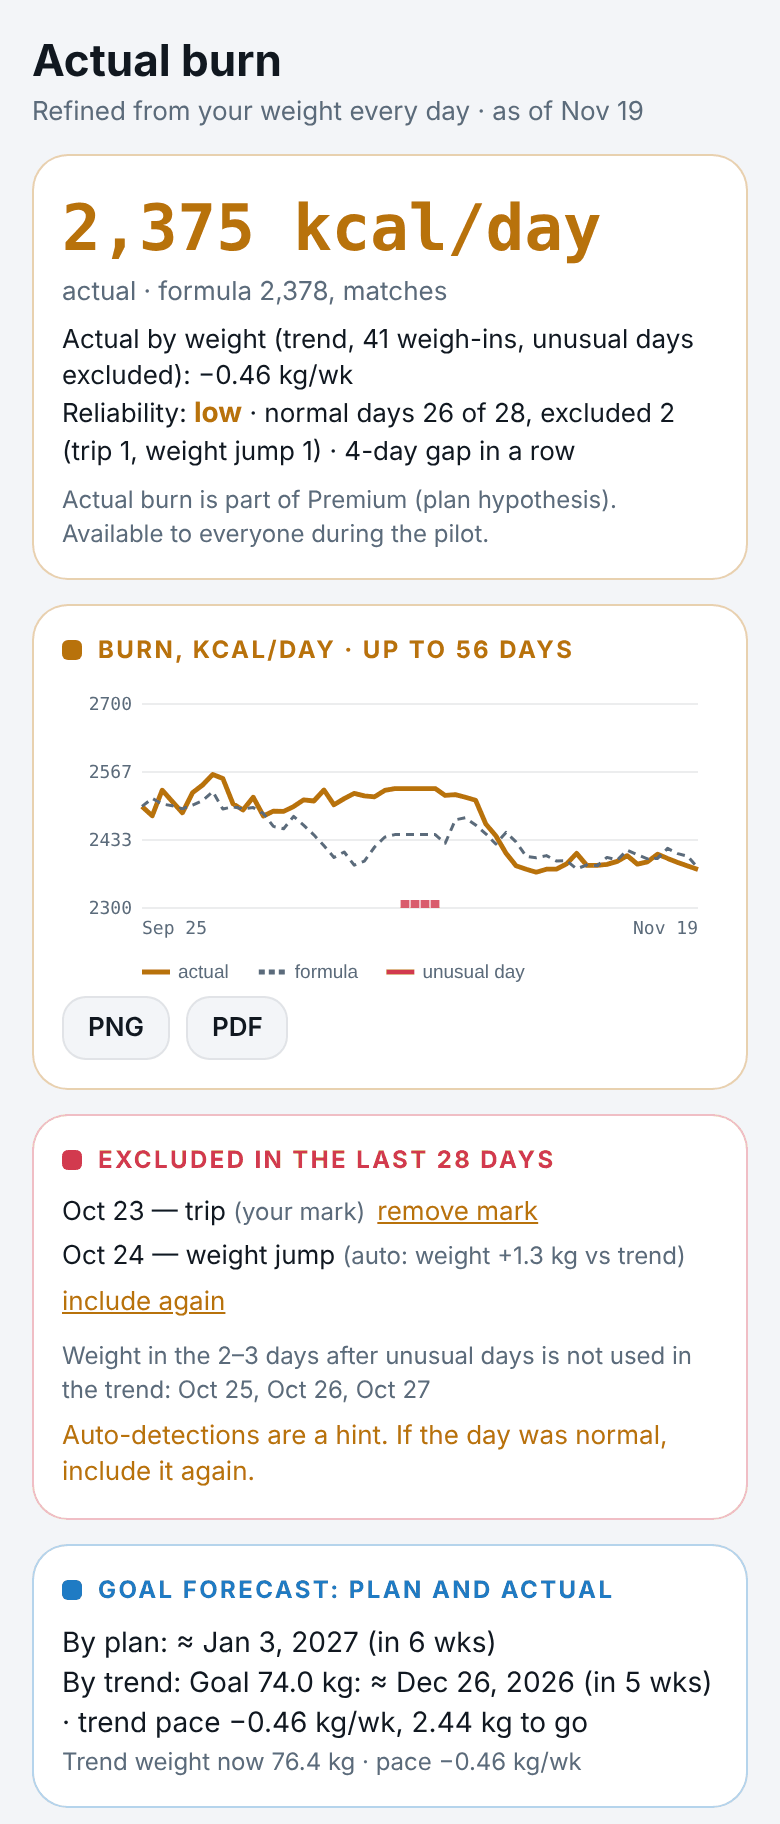
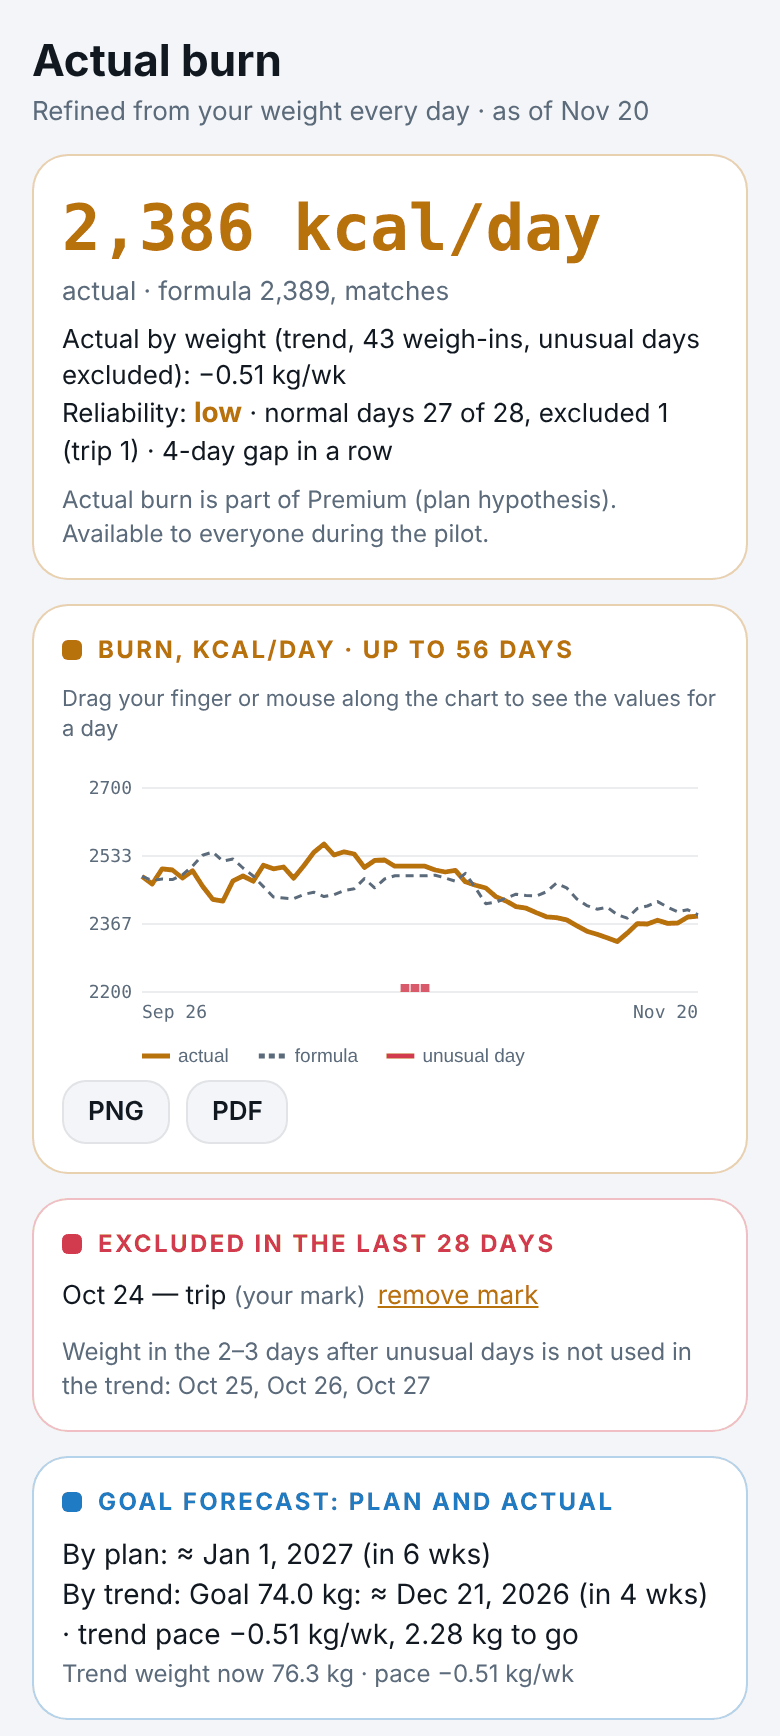
Графики: ползунок со значениями под пальцем или мышью
Касание или перетаскивание по графику ставит вертикальную линию с точками на сериях,
над графиком — день недели, дата и значения всех линий (тренд и формула — по линии между
точками, замеры — только точные). Вертикальный свайп по-прежнему прокручивает страницу.
В выгрузку PNG/PDF линия не попадает. Справка и картинки «Графики», «Расход» обновлены.

Claude-Session: https://claude.ai/code/session_01HA1pnm92jBdARLJN3UKvwB

diff --git a/src/ui/chartsvg.ts b/src/ui/chartsvg.ts
@@ -34,6 +34,8 @@ export interface ChartSpec {
   yStep?: number;
   zeroLine?: boolean;
   legend?: boolean;
+  /** Ползунок: вертикальная линия и точки серий в этот день (только на экране, в выгрузку не идёт). */
+  cursor?: ISODate;
   /** Форматы дат и чисел по языку интерфейса (подписи осей). */
   fmt: Pick<Fmt, 'dm' | 'num'>;
 }
@@ -57,8 +59,8 @@ function niceRange(vals: number[], step?: number): [number, number] {
 
 const fmtY = (v: number, f: ChartSpec['fmt']) => (Math.abs(v) >= 100 ? f.num(v, 0) : f.num(v, 1));
 
-export function chartSvg(spec: ChartSpec, t: Palette): string {
-  const { width: W, height: H } = spec;
+/** Поля области построения — общие для рисования и для ползунка. */
+function frame(spec: Pick<ChartSpec, 'width' | 'height' | 'from' | 'to' | 'series' | 'legend'>) {
   const legendH = spec.legend === false ? 0 : 18;
   const pL = 40;
   const hasRight = spec.series.some((s) => s.axis === 'right' && s.points.length);
@@ -66,7 +68,64 @@ export function chartSvg(spec: ChartSpec, t: Palette): string {
   const pT = 10;
   const pB = 20 + legendH;
   const span = Math.max(1, dayDiff(spec.from, spec.to));
-  const x = (d: ISODate) => pL + (dayDiff(spec.from, d) / span) * (W - pL - pR);
+  const x = (d: ISODate) => pL + (dayDiff(spec.from, d) / span) * (spec.width - pL - pR);
+  return { legendH, pL, pR, pT, pB, hasRight, span, x };
+}
+
+/** Число для подписи ползунка: крупные — целыми, вес и % — с десятыми, малые изменения — с сотыми. */
+export const fmtValue = (v: number, f: Pick<Fmt, 'num'>) =>
+  f.num(v, Math.abs(v) >= 100 ? 0 : Math.abs(v) >= 10 ? 1 : 2);
+
+/** Ближайший к точке касания день, в который есть хотя бы одно значение. */
+export function nearestDate(
+  spec: Pick<ChartSpec, 'width' | 'height' | 'from' | 'to' | 'series' | 'legend'>,
+  px: number,
+): ISODate | null {
+  const { x } = frame(spec);
+  let best: ISODate | null = null;
+  let bestDist = Infinity;
+  for (const s of spec.series)
+    for (const p of s.points) {
+      const dist = Math.abs(x(p.d) - px);
+      if (dist < bestDist || (dist === bestDist && best != null && p.d < best)) {
+        best = p.d;
+        bestDist = dist;
+      }
+    }
+  return best;
+}
+
+/**
+ * Значение серии в день d: точное, а для сплошной линии без точек (тренд, формула) — по линии между соседними точками.
+ * Замеры (точки) и столбики берутся только точно: выдумывать взвешивание нельзя.
+ */
+export function seriesAt(s: Series, d: ISODate): number | null {
+  const exact = s.points.find((q) => q.d === d);
+  if (exact) return exact.v;
+  if (s.bars || s.dots || s.points.length < 2) return null;
+  let a: Series['points'][number] | null = null;
+  let b: Series['points'][number] | null = null;
+  for (const p of s.points) {
+    if (p.d < d && (!a || p.d > a.d)) a = p;
+    if (p.d > d && (!b || p.d < b.d)) b = p;
+  }
+  if (!a || !b || dayDiff(a.d, b.d) > (s.gapDays ?? 7)) return null;
+  return a.v + ((b.v - a.v) * dayDiff(a.d, d)) / dayDiff(a.d, b.d);
+}
+
+/** Значения всех серий в выбранный день (серии без значения в этот день пропускаются). */
+export function valuesAt(spec: Pick<ChartSpec, 'series'>, d: ISODate) {
+  const out: { label: string; color: string; v: number }[] = [];
+  for (const s of spec.series) {
+    const v = seriesAt(s, d);
+    if (v != null) out.push({ label: s.label, color: s.color, v });
+  }
+  return out;
+}
+
+export function chartSvg(spec: ChartSpec, t: Palette): string {
+  const { width: W, height: H } = spec;
+  const { legendH, pL, pR, pT, pB, hasRight, span, x } = frame(spec);
   const leftVals = spec.series.filter((s) => s.axis !== 'right').flatMap((s) => s.points.map((p) => p.v));
   const rightVals = spec.series.filter((s) => s.axis === 'right').flatMap((s) => s.points.map((p) => p.v));
   if (spec.zeroLine) leftVals.push(0);
@@ -113,6 +172,16 @@ export function chartSvg(spec: ChartSpec, t: Palette): string {
     g += `<path d="${dPath}" fill="none" stroke="${s.color}" stroke-width="${s.width || 2}" ${s.dash ? 'stroke-dasharray="4 3"' : ''} stroke-linejoin="round"/>`;
     if (s.dots)
       for (const p of pts) g += `<circle cx="${x(p.d).toFixed(1)}" cy="${y(p.v).toFixed(1)}" r="2.2" fill="${s.color}"/>`;
+  }
+  if (spec.cursor) {
+    const cx = x(spec.cursor).toFixed(1);
+    g += `<line x1="${cx}" y1="${pT - 6}" x2="${cx}" y2="${H - pB}" stroke="${t.text}" stroke-width="1.5"/>`;
+    for (const s of spec.series) {
+      const v = seriesAt(s, spec.cursor);
+      if (v == null) continue;
+      const cy = (s.axis === 'right' ? yR : yL)(v).toFixed(1);
+      g += `<circle cx="${cx}" cy="${cy}" r="4.5" fill="${t.card}" stroke="${s.color}" stroke-width="2.2"/>`;
+    }
   }
   g += `<text x="${pL}" y="${H - pB + 13}" fill="${t.muted}" font-size="9" ${FONT}>${esc(spec.fmt.dm(spec.from))}</text>`;
   g += `<text x="${W - pR}" y="${H - pB + 13}" fill="${t.muted}" font-size="9" text-anchor="end" ${FONT}>${esc(spec.fmt.dm(spec.to))}</text>`;

diff --git a/src/ui/Chart.tsx b/src/ui/Chart.tsx
@@ -1,18 +1,21 @@
-import React, { useState } from 'react';
-import { Platform, View } from 'react-native';
+import React, { useRef, useState } from 'react';
+import { Platform, Pressable, View, type GestureResponderEvent } from 'react-native';
 import { SvgXml } from 'react-native-svg';
-import { chartSvg, type ChartSpec } from './chartsvg';
-import { Btn, Row } from './kit';
+import { chartSvg, fmtValue, nearestDate, valuesAt, type ChartSpec } from './chartsvg';
+import { Btn, Row, T } from './kit';
 import { downloadBlob, printSvg, svgToPng } from './files';
 import { LIGHT, useTheme } from './theme';
 import { useI18n } from '../i18n';
+import type { ISODate } from '../core/dates';
+
+const cap = (s: string) => s.charAt(0).toUpperCase() + s.slice(1);
 
 export function Chart({
   spec,
   height = 180,
   exportName,
 }: {
-  spec: Omit<ChartSpec, 'width' | 'height' | 'fmt'>;
+  spec: Omit<ChartSpec, 'width' | 'height' | 'fmt' | 'cursor'>;
   height?: number;
   /** Имя файла для выгрузки; без него кнопок выгрузки нет. */
   exportName?: string;
@@ -20,13 +23,85 @@ export function Chart({
   const t = useTheme();
   const { tx, f } = useI18n();
   const [w, setW] = useState(0);
+  const [cursor, setCursor] = useState<ISODate | null>(null);
+  type Box = {
+    getBoundingClientRect?: () => { left: number };
+    measure?: (cb: (x: number, y: number, w: number, h: number, pageX: number, pageY: number) => void) => void;
+  };
+  const box = useRef<Box | null>(null);
+  const left = useRef(0);
   const full: Omit<ChartSpec, 'width' | 'height'> = { markLabel: tx.charts.unusualDay, ...spec, fmt: f };
-  const xml = w ? chartSvg({ ...full, width: w, height }, t) : '';
+  // день под указателем мог выпасть из периода после смены масштаба
+  const cur = cursor && cursor >= spec.from && cursor <= spec.to ? cursor : null;
+  const xml = w ? chartSvg({ ...full, width: w, height, cursor: cur ?? undefined }, t) : '';
   const exportSpec = () => chartSvg({ ...full, width: 720, height: 300 }, LIGHT);
+
+  // Ползунок: касание или нажатие мышью ставит линию, движение пальца её ведёт.
+  // Горизонтальное движение остаётся у графика, вертикальное прокручивает страницу (touch-action: pan-y).
+  const pick = (pageX: number) => {
+    if (!w) return;
+    const d = nearestDate({ ...full, width: w, height }, pageX - left.current);
+    if (d && d !== cursor) setCursor(d);
+  };
+  const measure = (e: GestureResponderEvent) => {
+    const pageX = e.nativeEvent.pageX;
+    const el = box.current;
+    if (Platform.OS === 'web' && el?.getBoundingClientRect) {
+      left.current = el.getBoundingClientRect().left + (typeof window !== 'undefined' ? window.scrollX : 0);
+      pick(pageX);
+    } else if (el?.measure) {
+      el.measure((_x, _y, _w, _h, px) => {
+        left.current = px;
+        pick(pageX);
+      });
+    } else pick(pageX);
+  };
+
+  const vals = cur ? valuesAt(spec, cur) : [];
+  const unusual = cur && spec.marks?.includes(cur);
   return (
     <View>
-      <View onLayout={(e) => setW(Math.round(e.nativeEvent.layout.width))} style={{ height }}>
-        {xml ? <SvgXml xml={xml} width={w} height={height} /> : null}
+      <View style={{ minHeight: 38, marginBottom: 4, flexDirection: 'row', alignItems: 'flex-start' }}>
+        {cur ? (
+          <>
+            <View style={{ flex: 1 }}>
+              <T size={12} bold>
+                {cap(f.weekday(cur))}, {f.dm(cur)}
+                {unusual ? <T size={12} color={spec.markColor || t.red}>{'  · ' + tx.charts.unusualDay}</T> : null}
+              </T>
+              <View style={{ flexDirection: 'row', flexWrap: 'wrap', columnGap: 12, rowGap: 2, marginTop: 2 }}>
+                {vals.map((v) => (
+                  <View key={v.label} style={{ flexDirection: 'row', alignItems: 'center' }}>
+                    <View style={{ width: 8, height: 8, borderRadius: 4, backgroundColor: v.color, marginRight: 5 }} />
+                    <T size={12} muted>{v.label} </T>
+                    <T size={14} bold mono>{fmtValue(v.v, f)}</T>
+                  </View>
+                ))}
+              </View>
+            </View>
+            <Pressable onPress={() => setCursor(null)} hitSlop={10} accessibilityRole="button" accessibilityLabel="×">
+              <T muted size={18}>×</T>
+            </Pressable>
+          </>
+        ) : (
+          <T muted size={11}>{tx.charts.scrubHint}</T>
+        )}
+      </View>
+      <View
+        ref={box as never}
+        onLayout={(e) => setW(Math.round(e.nativeEvent.layout.width))}
+        style={[{ height }, Platform.OS === 'web' ? ({ touchAction: 'pan-y', cursor: 'crosshair', userSelect: 'none' } as object) : null]}
+        onStartShouldSetResponder={() => true}
+        onMoveShouldSetResponder={() => true}
+        onResponderGrant={measure}
+        onResponderMove={(e) => pick(e.nativeEvent.pageX)}
+        onResponderTerminationRequest={() => true}
+      >
+        {xml ? (
+          <View pointerEvents="none">
+            <SvgXml xml={xml} width={w} height={height} />
+          </View>
+        ) : null}
       </View>
       {exportName && Platform.OS === 'web' ? (
         <Row style={{ marginTop: 6 }}>

diff --git a/src/help/shots.gen.ts b/src/help/shots.gen.ts
@@ -10,8 +10,8 @@ export const HELP_SHOTS: Record<string, Record<string, HelpShot>> = {
     day: { src: require('../../assets/help/ru/day.png'), w: 780, h: 1118 },
     workout: { src: require('../../assets/help/ru/workout.png'), w: 780, h: 1416 },
     comment: { src: require('../../assets/help/ru/comment.png'), w: 780, h: 840 },
-    fact: { src: require('../../assets/help/ru/fact.png'), w: 780, h: 1900 },
-    charts: { src: require('../../assets/help/ru/charts.png'), w: 780, h: 1508 },
+    fact: { src: require('../../assets/help/ru/fact.png'), w: 780, h: 1776 },
+    charts: { src: require('../../assets/help/ru/charts.png'), w: 780, h: 1676 },
     photo: { src: require('../../assets/help/ru/photo.png'), w: 780, h: 1580 },
     profile: { src: require('../../assets/help/ru/profile.png'), w: 780, h: 1430 },
     goal: { src: require('../../assets/help/ru/goal.png'), w: 780, h: 1198 },
@@ -26,8 +26,8 @@ export const HELP_SHOTS: Record<string, Record<string, HelpShot>> = {
     day: { src: require('../../assets/help/en/day.png'), w: 780, h: 1148 },
     workout: { src: require('../../assets/help/en/workout.png'), w: 780, h: 1416 },
     comment: { src: require('../../assets/help/en/comment.png'), w: 780, h: 840 },
-    fact: { src: require('../../assets/help/en/fact.png'), w: 780, h: 1824 },
-    charts: { src: require('../../assets/help/en/charts.png'), w: 780, h: 1400 },
+    fact: { src: require('../../assets/help/en/fact.png'), w: 780, h: 1736 },
+    charts: { src: require('../../assets/help/en/charts.png'), w: 780, h: 1568 },
     photo: { src: require('../../assets/help/en/photo.png'), w: 780, h: 1512 },
     profile: { src: require('../../assets/help/en/profile.png'), w: 780, h: 1286 },
     goal: { src: require('../../assets/help/en/goal.png'), w: 780, h: 1198 },

diff --git a/src/ui/chartsvg.test.ts b/src/ui/chartsvg.test.ts
@@ -1,0 +1,25 @@
+import { describe, expect, it } from 'vitest';
+import { nearestDate, seriesAt, valuesAt } from './chartsvg';
+
+const weights = { label: 'вес', color: '#00f', dots: true, points: [{ d: '2026-11-01', v: 72 }, { d: '2026-11-05', v: 71.6 }] };
+const trend = { label: 'тренд', color: '#fa0', dash: true, gapDays: 1e6, points: [{ d: '2026-11-01', v: 72 }, { d: '2026-11-11', v: 71 }] };
+const spec = { width: 350, height: 180, from: '2026-11-01', to: '2026-11-11', series: [weights, trend] };
+
+describe('ползунок графика', () => {
+  it('выбирает ближайший день с данными', () => {
+    // область построения 40…340 px, 10 дней по 30 px
+    expect(nearestDate(spec, 40)).toBe('2026-11-01');
+    expect(nearestDate(spec, 150)).toBe('2026-11-05');
+    expect(nearestDate(spec, 330)).toBe('2026-11-11');
+    expect(nearestDate({ ...spec, series: [] }, 100)).toBeNull();
+  });
+  it('линию тренда интерполирует, замеры — только точно', () => {
+    expect(seriesAt(trend, '2026-11-06')).toBeCloseTo(71.5);
+    expect(seriesAt(weights, '2026-11-03')).toBeNull();
+    expect(valuesAt(spec, '2026-11-05').map((v) => [v.label, +v.v.toFixed(2)])).toEqual([['вес', 71.6], ['тренд', 71.6]]);
+  });
+  it('не тянет линию через большой пропуск', () => {
+    const s = { label: 'ф', color: '#000', points: [{ d: '2026-11-01', v: 1 }, { d: '2026-11-20', v: 2 }] };
+    expect(seriesAt(s, '2026-11-10')).toBeNull();
+  });
+});

diff --git a/src/i18n/help.ru.ts b/src/i18n/help.ru.ts
@@ -118,6 +118,7 @@ export const helpRu = {
         'Выберите период: неделя, месяц, 3 месяца, всё время или свои даты.',
         'Вес и тренд: точки — ваши взвешивания, линия — тренд без необычных дней.',
         'Съедено и потрачено, ожидаемое и фактическое изменение веса, процент жира — каждый график выгружается в PNG или PDF.',
+        'Проведите пальцем (или мышью) по любому графику: вертикальная линия покажет день, а над графиком — дату и значения всех линий в этот день. Крестик убирает линию.',
         'Если фактическая линия веса заметно выше ожидаемой, скорее всего, дневник неполный или формула завышает расход.',
       ],
     },

diff --git a/src/i18n/help.en.ts b/src/i18n/help.en.ts
@@ -118,6 +118,7 @@ export const helpEn: typeof helpRu = {
         'Choose a period: week, month, 3 months, all time or custom dates.',
         'Weight and trend: dots are your weigh-ins, the line is the trend without unusual days.',
         'Eaten and burned, expected versus actual weight change, and body fat: every chart can be saved as PNG or PDF.',
+        'Drag your finger (or mouse) along any chart: a vertical line marks the day, and the date and the value of every line on that day appear above the chart. The cross hides the line.',
         'If the actual weight line runs well above the expected one, your log is probably incomplete or the formula overestimates your burn.',
       ],
     },

diff --git a/src/i18n/ru.ts b/src/i18n/ru.ts
@@ -363,6 +363,7 @@ export const ru = {
     fatTitle: '% жира (ВМС США)',
     fat: '% жира',
     noFat: 'Нет замеров за период.',
+    scrubHint: 'Проведите пальцем или мышью по графику — покажу значения за день',
     unusualDay: 'необычный день',
     files: { weight: 'ves', kcal: 'kkal', deficit: 'deficit', fat: 'zhir' },
   },

diff --git a/src/i18n/en.ts b/src/i18n/en.ts
@@ -350,6 +350,7 @@ export const en: Dict = {
     fatTitle: 'Body fat % (US Navy)',
     fat: 'body fat %',
     noFat: 'No measurements in this period.',
+    scrubHint: 'Drag your finger or mouse along the chart to see the values for a day',
     unusualDay: 'unusual day',
     files: { weight: 'weight', kcal: 'kcal', deficit: 'deficit', fat: 'body-fat' },
   },
